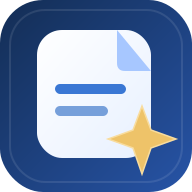
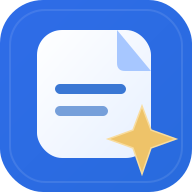
AI_Bukkomi_Scan_STEP2_Reference_Blue_v5_UI_Review_HOLD

diff --git a/index.html b/index.html
@@ -5,7 +5,7 @@
 <title>AIぶっこみスキャン</title>
 <meta name="viewport" content="width=device-width, initial-scale=1, viewport-fit=cover">
 <meta name="color-scheme" content="light">
-<meta name="theme-color" content="#192c4a">
+<meta name="theme-color" content="#2f6ce8">
 <meta name="description" content="ポケモンスリープのスクリーンショットをAI提出用ZIPにまとめるツール。">
 <meta property="og:type" content="website">
 <meta property="og:url" content="https://meka-create.github.io/pokesleep-ai-scan/">
@@ -28,10 +28,10 @@
 <meta name="apple-mobile-web-app-capable" content="yes">
 <meta name="apple-mobile-web-app-title" content="AIぶっこみスキャン">
 <meta name="apple-mobile-web-app-status-bar-style" content="default">
-<link rel="stylesheet" href="./styles.css?v=step2-sapphire-20261010-v4">
-<script type="module" src="./app.js?v=step2-sapphire-20261010-v4"></script>
+<link rel="stylesheet" href="./styles.css?v=step2-reference-blue-20261010-v5">
+<script type="module" src="./app.js?v=step2-reference-blue-20261010-v5"></script>
 <script type="module" src="./update-status.js?v=20261010-watch-ui-minimal-1"></script>
-<script defer src="./ui-extras.js?v=step2-sapphire-20261010-v4"></script>
+<script defer src="./ui-extras.js?v=step2-reference-blue-20261010-v5"></script>
 </head>
 <body>
 <div class="page">
@@ -42,9 +42,9 @@
     </div>
     <div class="masthead-actions">
       <button id="update-watch-button" data-state="pending" hidden type="button" aria-label="データ更新のお知らせ" title="データ更新のお知らせ" class="action-icon warning-icon">⚠</button>
-      <button id="tipsBtn" type="button" class="tips-btn" aria-haspopup="dialog" aria-controls="tipsDialog"><svg viewBox="0 0 24 24" aria-hidden="true"><circle cx="12" cy="12" r="9"/><path d="M9.8 9a2.5 2.5 0 0 1 4.7 1.2c0 2-2.5 2.4-2.5 4.2M12 17.5h.01"/></svg><span>TIPS</span></button>
+      <button id="tipsBtn" type="button" class="tips-btn" aria-haspopup="dialog" aria-controls="tipsDialog" title="スクショ例を見る">TIPS</button>
       <div class="more-wrap">
-        <button id="moreBtn" class="more-btn" type="button" aria-label="メニュー" aria-haspopup="menu" aria-controls="moreMenu" aria-expanded="false" title="メニュー"><svg viewBox="0 0 24 24" aria-hidden="true"><circle cx="12" cy="5" r="1.8"/><circle cx="12" cy="12" r="1.8"/><circle cx="12" cy="19" r="1.8"/></svg></button>
+        <button id="moreBtn" class="more-btn" type="button" aria-label="メニュー" aria-haspopup="menu" aria-controls="moreMenu" aria-expanded="false" title="メニュー">⋮</button>
         <div id="moreMenu" class="more-menu" role="menu" hidden><button id="sourcesMenuItem" role="menuitem" type="button">出典</button></div>
       </div>
     </div>
@@ -58,26 +58,26 @@
         <input id="choose-files" type="file" accept="image/png,image/jpeg,image/webp,.png,.jpg,.jpeg,.webp" multiple>
       </label>
       <div id="selection" class="selection" hidden>
-        <div class="selection-head"><strong id="count">0枚</strong><span id="size">合計 0 MB</span><button type="button" id="clear-all" class="text-btn">すべて削除</button></div>
+        <div class="selection-head"><strong id="count">0枚</strong><span id="size">合計 0 MB</span><button type="button" id="clear-all" class="text-btn">すべて解除</button></div>
         <ul id="files" class="file-list"></ul>
         <div id="duplicate-area" class="duplicate-area" hidden><strong>同一画像が含まれています</strong><p id="duplicate-summary"></p><p>重複画像の扱いを選択してください。</p><label class="radio"><input name="duplicate-mode" type="radio" value="dedupe"> 同一画像を1枚にまとめる</label><label class="radio"><input name="duplicate-mode" type="radio" value="keep"> すべて残す</label></div>
-        <p class="privacy">画像は端末内でZIP化されます。</p>
+        <p class="privacy">画像の内容はサーバーへ送信しません。ブラウザ上でZIP化します。</p>
       </div>
     </section>
     <section class="panel build-panel" aria-labelledby="build-title">
       <div class="section-heading"><span class="stepnum">02</span><h2 id="build-title">AI提出用ZIPを作成</h2></div>
-      <button id="build" class="primary" type="button" disabled><span>ZIPを作成する</span><svg aria-hidden="true" viewBox="0 0 24 24"><path d="M12 3v13m-5-5 5 5 5-5M4 19h16"/></svg></button>
+      <button id="build" class="primary" type="button" disabled><span>AI提出用ZIPを作成</span><svg aria-hidden="true" viewBox="0 0 24 24"><path d="M12 3v13m-5-5 5 5 5-5M4 19h16"/></svg></button>
       <div id="zip-progress" class="zip-progress" hidden><div class="zip-progress-track"><div id="zip-progress-fill"></div></div><span id="zip-progress-label">準備中…</span></div><p class="message" id="message" role="status" aria-live="polite"></p>
     </section>
     <section class="panel ready" id="ready" aria-labelledby="ready-title" hidden>
-      <div class="section-heading"><span class="stepnum done">✓</span><h2 id="ready-title">ZIPの準備ができました</h2></div>
+      <div class="section-heading"><span class="stepnum done">✓</span><h2 id="ready-title">準備ができました</h2></div>
       <div class="download-row"><span class="doc-icon">ZIP</span><div><strong id="archive-name">AI_Bukkomi_Scan.zip</strong><small id="archive-count"></small></div><button type="button" id="redownload" class="secondary">保存</button></div>
       <section class="handoff" aria-label="生成AIに送る手順">
         <h3 class="handoff-title">続けて生成AIで解析</h3>
-        <div class="handoff-step"><span class="handoff-index">1</span><strong>依頼文をコピー</strong><span class="handoff-hint">右上のアイコンからコピー</span></div>
+        <div class="handoff-step"><span class="handoff-index">1</span><strong>依頼文をコピー</strong></div>
         <div class="prompt"><div class="prompt-head"><span class="prompt-label"><svg viewBox="0 0 24 24" aria-hidden="true"><path d="M8 3h8l4 4v14H4V3h4Zm7 0v5h5M7 12h10M7 16h8"/></svg>AIに送る依頼文</span><button id="copy-prompt" type="button" aria-label="依頼文をコピー" title="依頼文をコピー" class="copy-icon"><svg viewBox="0 0 24 24" aria-hidden="true"><rect x="8" y="8" width="12" height="12" rx="2"/><path d="M16 8V6a2 2 0 0 0-2-2H6a2 2 0 0 0-2 2v8a2 2 0 0 0 2 2h2"/></svg></button></div><p class="prompt-text" id="prompt-text">添付ZIP内の START_HERE.md を最初に読み、そこで指定される必読ファイル・手順・確認条件・出力条件を厳密に守ってください。INPUT_MANIFEST.json の全画像を実際に解析し、未確定事項や実行不能な工程は推測せず報告してください。</p><span class="copy-feedback" id="copy-feedback" role="status" aria-live="polite"></span></div>
         <div class="handoff-step"><span class="handoff-index">2</span><strong>生成AIを開く</strong></div>
-        <a class="ai-choice" href="https://chatgpt.com/" target="_blank" rel="noopener noreferrer"><span class="ai-logo">✣</span><strong>ChatGPTを開く</strong><span class="arrow">↗</span></a>
+        <a class="ai-choice" href="https://chatgpt.com/" target="_blank" rel="noopener noreferrer"><span class="ai-logo" aria-hidden="true"><svg viewBox="0 0 24 24" role="img" focusable="false"><path d="M9.205 8.658v-2.26c0-.19.072-.333.238-.428l4.543-2.616c.619-.357 1.356-.523 2.117-.523 2.854 0 4.662 2.212 4.662 4.566 0 .167 0 .357-.024.547l-4.71-2.759a.797.797 0 00-.856 0l-5.97 3.473zm10.609 8.8V12.06c0-.333-.143-.57-.429-.737l-5.97-3.473 1.95-1.118a.433.433 0 01.476 0l4.543 2.617c1.309.76 2.189 2.378 2.189 3.948 0 1.808-1.07 3.473-2.76 4.163zM7.802 12.703l-1.95-1.142c-.167-.095-.239-.238-.239-.428V5.899c0-2.545 1.95-4.472 4.591-4.472 1 0 1.927.333 2.712.928L8.23 5.067c-.285.166-.428.404-.428.737v6.898zM12 15.128l-2.795-1.57v-3.33L12 8.658l2.795 1.57v3.33L12 15.128zm1.796 7.23c-1 0-1.927-.332-2.712-.927l4.686-2.712c.285-.166.428-.404.428-.737v-6.898l1.974 1.142c.167.095.238.238.238.428v5.233c0 2.545-1.974 4.472-4.614 4.472zm-5.637-5.303l-4.544-2.617c-1.308-.761-2.188-2.378-2.188-3.948A4.482 4.482 0 014.21 6.327v5.423c0 .333.143.571.428.738l5.947 3.449-1.95 1.118a.432.432 0 01-.476 0zm-.262 3.9c-2.688 0-4.662-2.021-4.662-4.519 0-.19.024-.38.047-.57l4.686 2.71c.286.167.571.167.856 0l5.97-3.448v2.26c0 .19-.07.333-.237.428l-4.543 2.616c-.619.357-1.356.523-2.117.523zm5.899 2.83a5.947 5.947 0 005.827-4.756C22.287 18.339 24 15.84 24 13.296c0-1.665-.713-3.282-1.998-4.448.119-.5.19-.999.19-1.498 0-3.401-2.759-5.947-5.946-5.947-.642 0-1.26.095-1.88.31A5.962 5.962 0 0010.205 0a5.947 5.947 0 00-5.827 4.757C1.713 5.447 0 7.945 0 10.49c0 1.666.713 3.283 1.998 4.448-.119.5-.19 1-.19 1.499 0 3.401 2.759 5.946 5.946 5.946.642 0 1.26-.095 1.88-.309a5.96 5.96 0 004.162 1.713z"/></svg></span><strong>ChatGPT</strong><span class="arrow">↗</span></a>
         <div class="handoff-step final-step"><span class="handoff-index">3</span><strong>保存したZIPを添付し、依頼文を貼り付けて送信</strong></div>
       </section>
     </section>

diff --git a/styles.css b/styles.css
@@ -40,3 +40,57 @@ body{background:radial-gradient(ellipse 75% 40% at 53% -10%,rgba(100,149,236,.15
 
 /* Offline-friendly fallback for the reference TIPS screenshot. */
 .tips-image-fallback{margin:3px 0 0;padding:22px 14px;border-radius:10px;background:#eef3fc;color:#687c9c;text-align:center;font-size:12px;line-height:1.75}
+
+/* Reference-blue restoration (from supplied mid-audit design). Functionality and step flows unchanged. */
+:root{font-family:system-ui,-apple-system,"Hiragino Kaku Gothic ProN","Yu Gothic",Meiryo,sans-serif;color:#14263b;background:#f6f8fb;--navy:#14263b;--dark:#14263b;--teal:#2f6ce8;--teal-deep:#2d65d3;--mint:#eaf1ff;--muted:#778493;--line:#e3eaf3;--shadow:0 5px 22px rgba(27,59,104,.045)}
+body{background:#f6f8fb}
+.page{max-width:960px;padding:0 22px}
+.masthead{min-height:78px;border-bottom:1px solid #e1e7ef}
+.brand{color:#14263b}
+.brand-mark{box-shadow:0 4px 10px rgba(47,108,232,.10)}
+main{padding-top:34px}
+.panel{border:1px solid #e3eaf3;border-radius:20px;padding:28px;margin-bottom:22px;box-shadow:var(--shadow)}
+.section-heading{gap:16px;margin-bottom:22px}
+.section-heading h1,.section-heading h2{font-size:20px;letter-spacing:-.025em}
+.stepnum{width:37px;height:37px;flex-basis:37px;font-size:13px;border-radius:11px;background:#eaf1ff;color:#356ada}
+.stepnum.done{color:#168265;background:#def8e9}
+.dropzone{min-height:178px;border:2px dashed #abc4eb;border-radius:16px;background:#f8fbff;gap:10px;transform:none}
+.dropzone:hover,.dropzone.dragover{border-color:#286bdd;background:#f0f6ff;transform:none}
+.dropzone .upload-icon{width:56px;height:56px;border-radius:18px;background:#e7efff;color:#356ada}
+.dropzone strong{color:#14263b}
+.drop-hint{font-size:12px;color:#6c7c8c;letter-spacing:0}
+.privacy{font-size:12px;color:#778493}
+.selection-head strong{font-size:17px}
+.text-btn{color:#2d65d3;font-size:13px}
+.primary{min-height:55px;border-radius:12px;background:#2f6ce8;box-shadow:none;font-weight:800;letter-spacing:0}
+.primary:disabled{background:#bac8de;color:#fff;box-shadow:none}
+.primary:not(:disabled):hover{background:#2a62d9;box-shadow:none;transform:none}
+.zip-progress-track>div{background:#2f6ce8}
+.download-row{border-color:#e3eaf3;background:#f9fbff;border-radius:12px;padding:15px}
+.doc-icon{background:#e5eeff;color:#376dda}
+.secondary{color:#3068da;border-color:#b9ceec;border-radius:9px}
+.prompt{background:#f7f9fc;border-color:#dbe4f0;box-shadow:none}
+.prompt-head{background:#eaf1ff}
+.prompt-label{color:#2d65d3}
+.copy-icon{color:#2d65d3}
+.handoff-index{background:#eaf1ff;color:#356ada}
+.handoff .prompt{background:#f7f9fc;border-color:#dbe4f0;box-shadow:none}
+.handoff .prompt-head{background:#eaf1ff}
+.handoff .final-step{background:#f8fbff;border-color:#e3eaf3}
+.handoff .final-step .handoff-index{background:#eaf1ff}
+.ai-choice{border:1px solid #dbe4f0;border-radius:14px;padding:15px;gap:14px;color:#14263b}
+.ai-choice:hover,.handoff .ai-choice:hover{border-color:#87aaf0;background:#f9fbff}
+.ai-logo{display:grid;place-items:center;width:42px;height:42px;flex:0 0 42px;border:1px solid #e0e5ec;background:#fff;border-radius:12px;color:#101010}
+.ai-logo svg{display:block;width:29px;height:29px;fill:currentColor}
+.ai-choice strong{font-size:18px;line-height:1.3;font-weight:800}
+.arrow{font-size:20px;color:#4e83cf}
+.info-copy a{color:#2d65d3}
+.watch-actions button{background:#3068db}
+/* Match the frozen OCR application's TOP RIGHT control geometry; no question-mark icon. */
+.masthead-actions{gap:7px}
+.masthead-actions .tips-btn{min-width:52px;width:auto;height:31px;padding:0 11px;border:1px solid #d9dcf8;border-radius:999px;background:#f5f5ff;color:#4d50c9;box-shadow:none;font-size:11px;font-weight:900;letter-spacing:.05em;line-height:29px}
+.masthead-actions .tips-btn:hover{background:#eceeff;border-color:#bfc3f3}
+.masthead-actions .more-btn{display:grid;place-items:center;min-width:31px;width:31px;height:31px;padding:0;border:1px solid #e0e3eb;border-radius:999px;background:#fff;color:#697386;box-shadow:none;font-size:20px;font-weight:900;line-height:1}
+.masthead-actions .more-btn:hover,.masthead-actions .more-btn[aria-expanded="true"]{background:#f1f2f7;border-color:#cfd3df;color:#444c5d}
+.more-menu{top:38px;border-color:#e1e4ec;border-radius:13px;box-shadow:0 16px 42px rgba(28,35,58,.16)}
+@media(max-width:620px){.page{padding:0 14px}.masthead{min-height:66px}.panel{padding:20px;border-radius:15px;margin-bottom:16px}.section-heading h1,.section-heading h2{font-size:18px}.stepnum{width:33px;height:33px;flex-basis:33px}.masthead-actions .tips-btn{height:31px;min-width:52px;padding:0 11px;font-size:11px;border-radius:999px}.masthead-actions .more-btn{width:31px;min-width:31px;height:31px;border-radius:999px}.ai-choice strong{font-size:18px}}

diff --git a/sw.js b/sw.js
@@ -1,5 +1,5 @@
 /* Shell caching only. Security-critical kit assets always pass through native network fetch. */
-const CACHE='ai-bukkomi-scan-shell-step2-sapphire-20261010-v4';
+const CACHE='ai-bukkomi-scan-shell-step2-reference-blue-20261010-v5';
 const SHELL=['./','./index.html','./manifest.webmanifest','./styles.css','./app.js','./zip-store.js','./ui-extras.js','./icons/icon-192.png','./icons/icon-512.png','./icons/icon-512-maskable.png','./icons/favicon-32.png','./icons/apple-touch-icon.png','./assets/ogp-card.png'];
 self.addEventListener('install',event=>{event.waitUntil(caches.open(CACHE).then(cache=>cache.addAll(SHELL)).then(()=>self.skipWaiting()));});
 self.addEventListener('activate',event=>{event.waitUntil(Promise.all([caches.keys().then(keys=>Promise.all(keys.filter(k=>k.startsWith('ai-bukkomi-scan-shell-')&&k!==CACHE).map(k=>caches.delete(k)))),self.clients.claim()]));});
